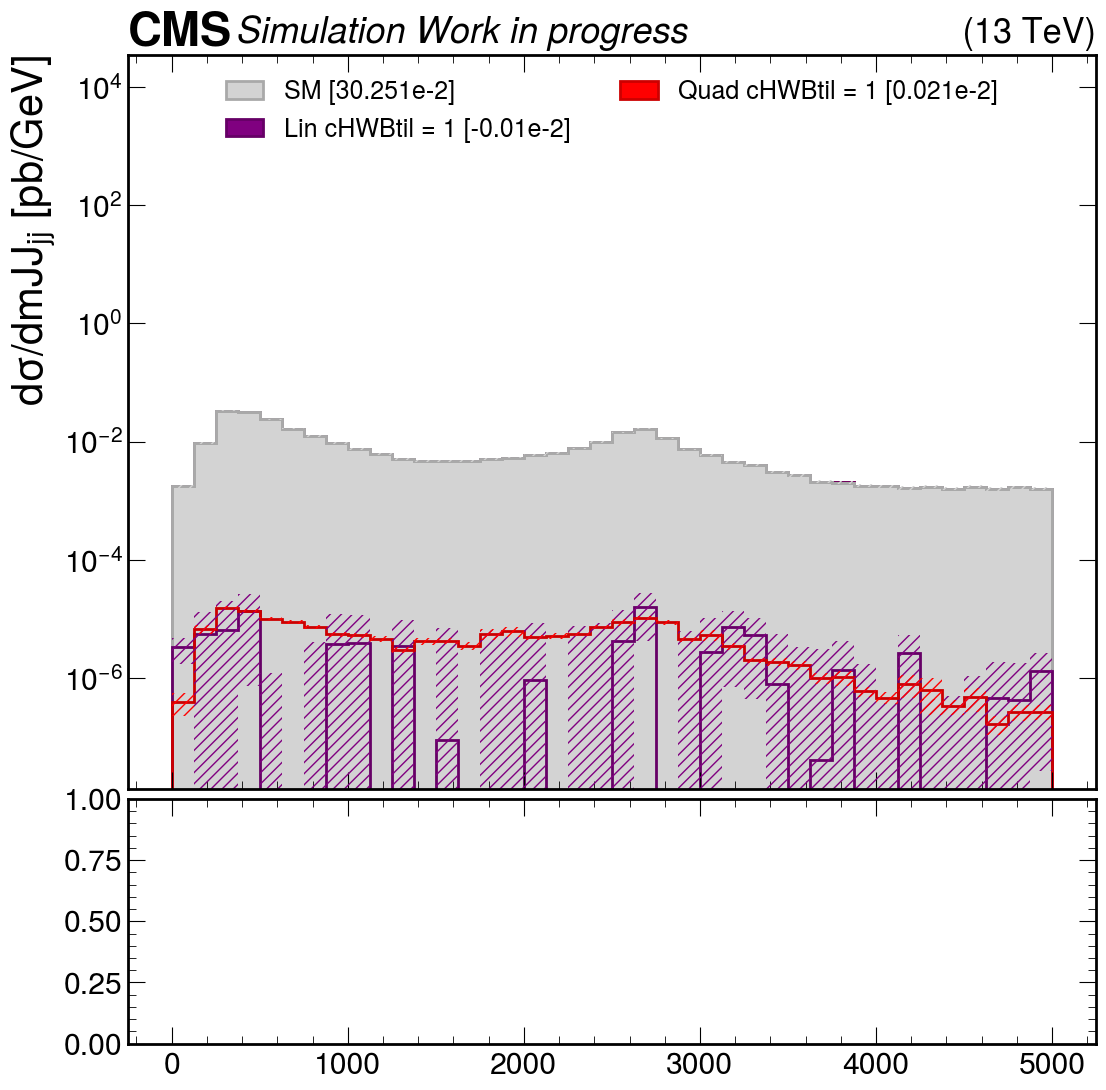
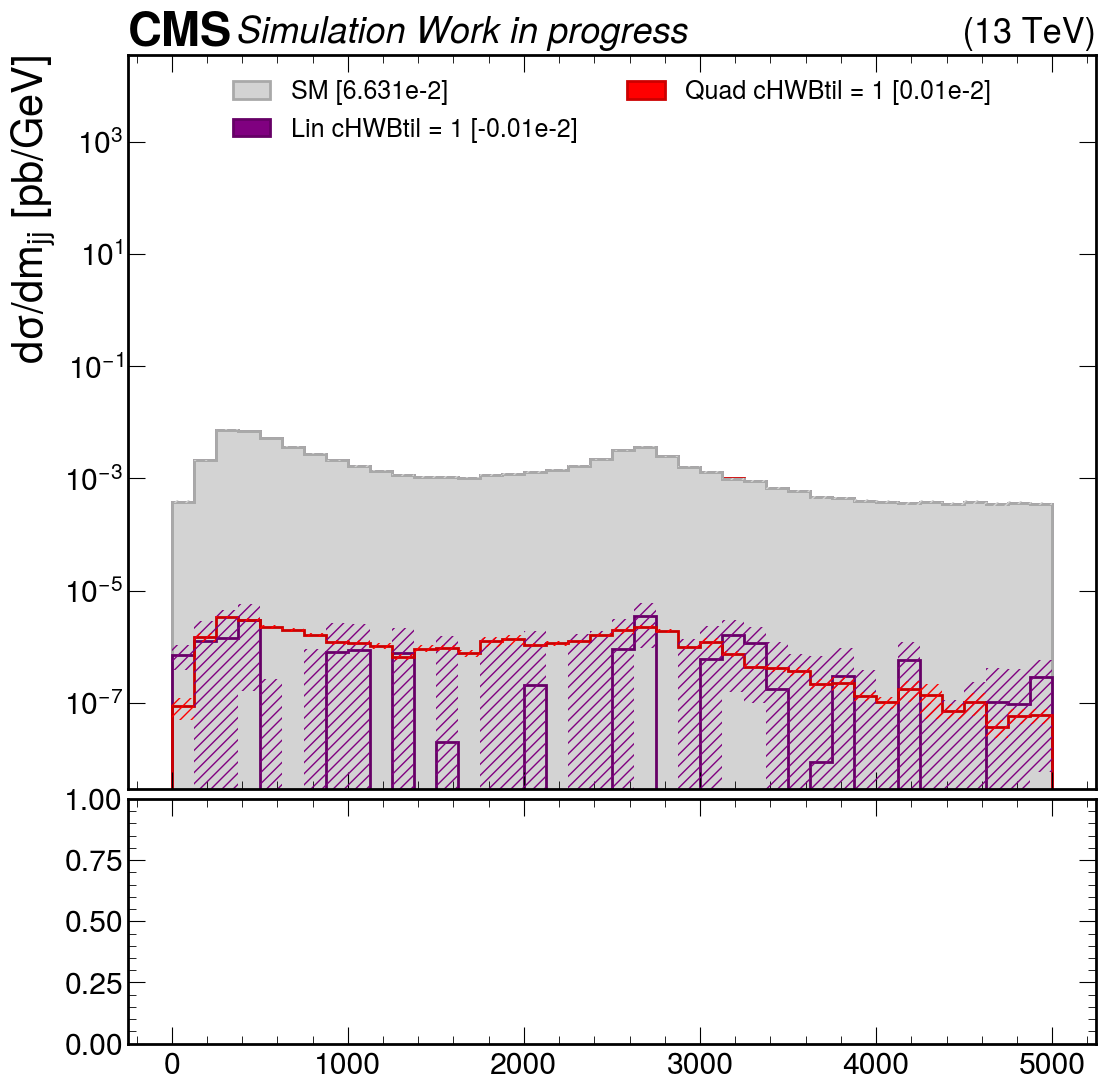
cambio

diff --git a/reader.py b/reader.py
@@ -66,7 +66,7 @@ weights = {
         "w_quad_clebQIm": f"((-w_sm + 0.5*(weights[16] + weights[15])))",
         "w_sm_lin_quad_clebQIm": f"((weights[16]))"
         }    
-
+"""
 #qua uso parser per riconoscere argomenti per fare solo alcuni istogrammi
 def defaultParser():
 
@@ -97,7 +97,7 @@ if xmax == 3:
     xmax = np.pi
 if xmin == -3:
     xmin = -np.pi
-
+"""
 #questo riempe il dataframe con array di pesi (non so a che servano)
 for key in weights.keys():
     df = df.Define(key, weights[key])
@@ -108,14 +108,34 @@ histos = []
 
 print(df.AsNumpy(columns=["nom_weights"])["nom_weights"])
 
+#trovo somma pesi nominali
+lhe_path = os.getcwd() + "/.."
+prelhe = sys.argv[1]
+extlhe = ".lhe"
+unsorted_fis = [fi for fi in os.listdir(lhe_path) if fi.startswith(prelhe) and fi.endswith(extlhe)]
+unsorted_fis = np.array(unsorted_fis)
+def custom_sort_lhe(fi_name):
+    return int(fi_name.split('_')[1].split('.')[0])
+fis = sorted(unsorted_fis, key=custom_sort_lhe)
+fis = list(map(lambda k: lhe_path + "/" + k, fis))
+tot_nom_weights = 0
+for index in range(len(fis)):
+    fi = fis[index]
+    print(fi , index)
+    xs = pylhe.read_lhe_init(fi)['procInfo'][0]['xSection']
+    weight_names = ['rwgt_' + str(i) for i in range(1, 46)]
+    arr = pylhe.to_awkward(pylhe.read_lhe_with_attributes(fi) , weight_names)
+    nom_weights = (arr.eventinfo.weight * xs * 1000/ ak.sum(arr.eventinfo.weight))
+    tot_nom_weights += ak.sum(nom_weights)
 
 #crea istogrammi in modo automatizzato
 vars = ["mll", "deltaPhill", "deltaEtall", "ptl1", "ptl2", "mJJ", "deltaPhiJJ", "deltaEtaJJ", "ptJ1", "ptJ2"]
 xmin = [70 , -np.pi , -4 , 0 , 0 , 0  , -np.pi , -9 , 0 , 0]
 xmax = [110 , np.pi , 4 , 900 , 400 , 5000 , np.pi , 9 , 1100 , 1000]
 for w in weights.keys():
-    counts = df.Count().GetValue()
-    weight = f'{lum} * ({w} * nom_weights / {counts})'
+    #counts = df.Count().GetValue()
+    counts = tot_nom_weights
+    weight = f'100 * ({w} * nom_weights / {counts})'
     #weight = f'{lum} * 1000.0 * ' + w
     df = df.Redefine(w, weight)
 for j in range(len(vars)):
@@ -149,6 +169,7 @@ for j in range(len(vars)):
     f.Close()
        
     print(vars[j] + ' fatto')
+
 
 
 """
@@ -236,3 +257,8 @@ for f in files:
 
 df = ROOT.RDataFrame("Events", files)
 """
+
+
+
+
+

diff --git a/an.py b/an.py
@@ -65,7 +65,7 @@ def main():
         print("somma pesi nominali: " + str(ak.sum(tot_nom_weights)))
 
         # Creazione di un file ROOT e di un TTree
-        output_file = ROOT.TFile("output_" + str(index + 10) + ".root" , "RECREATE")
+        output_file = ROOT.TFile("output_" + str(index) + ".root" , "RECREATE")
         output_tree = ROOT.TTree("events", "Event tree")
 
         # Dichiarazione delle variabili da inserire nel TTree
